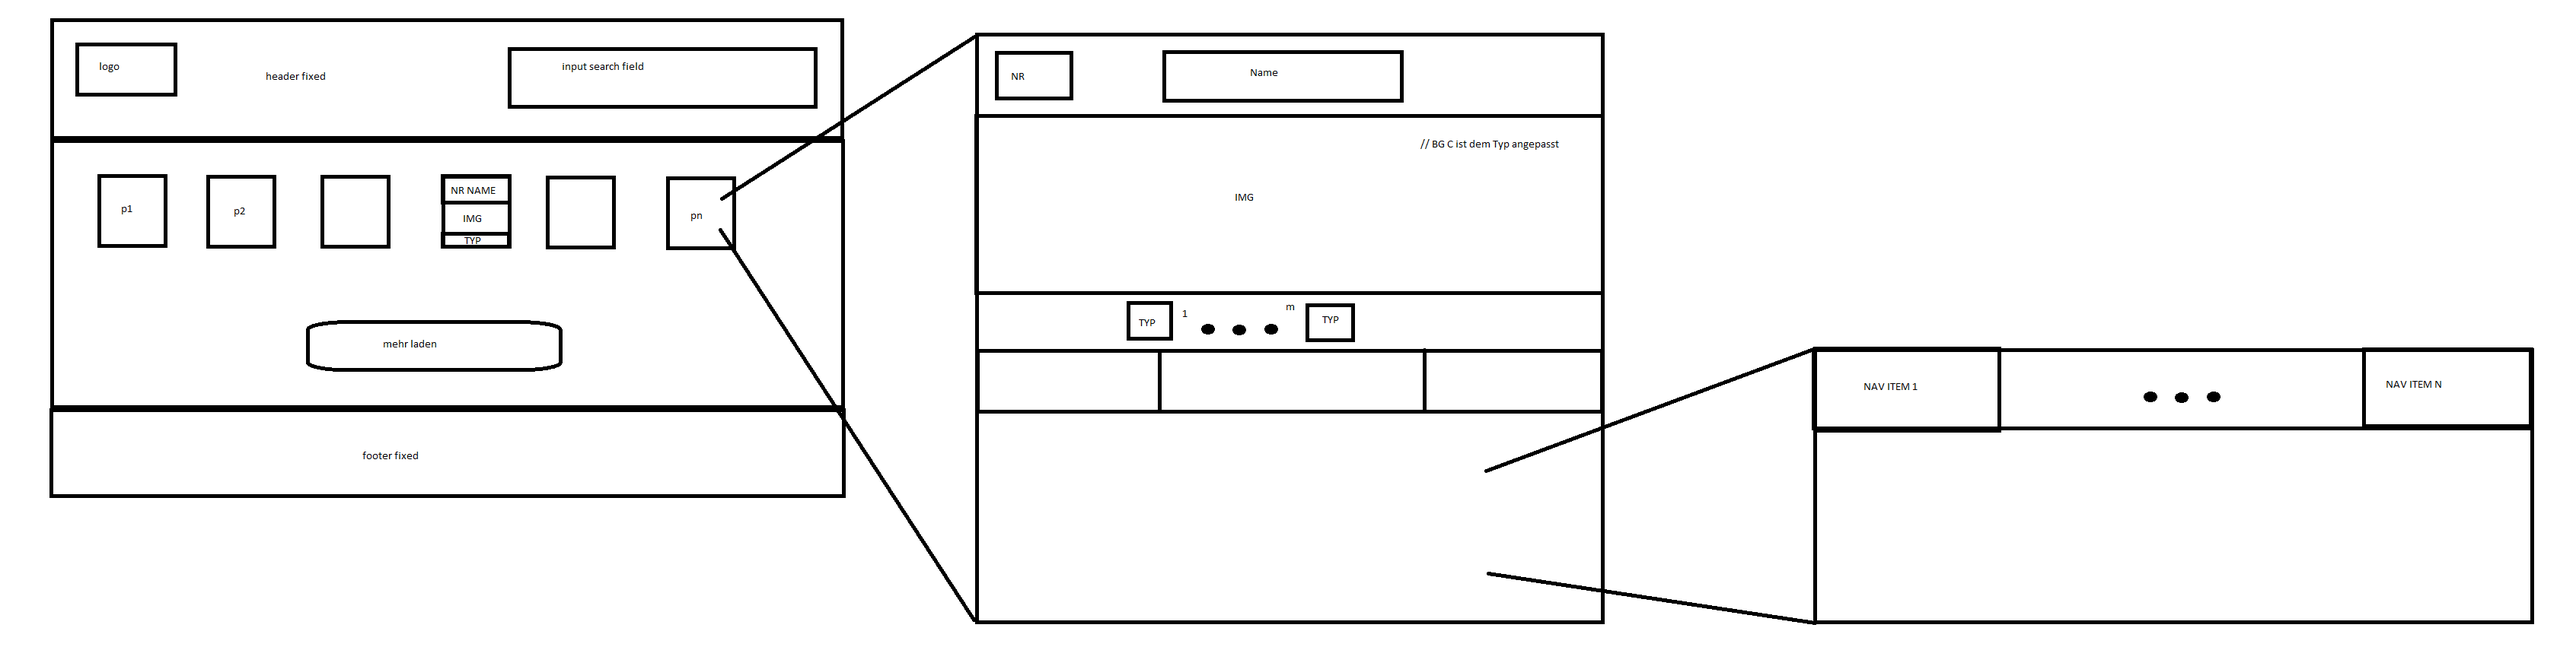
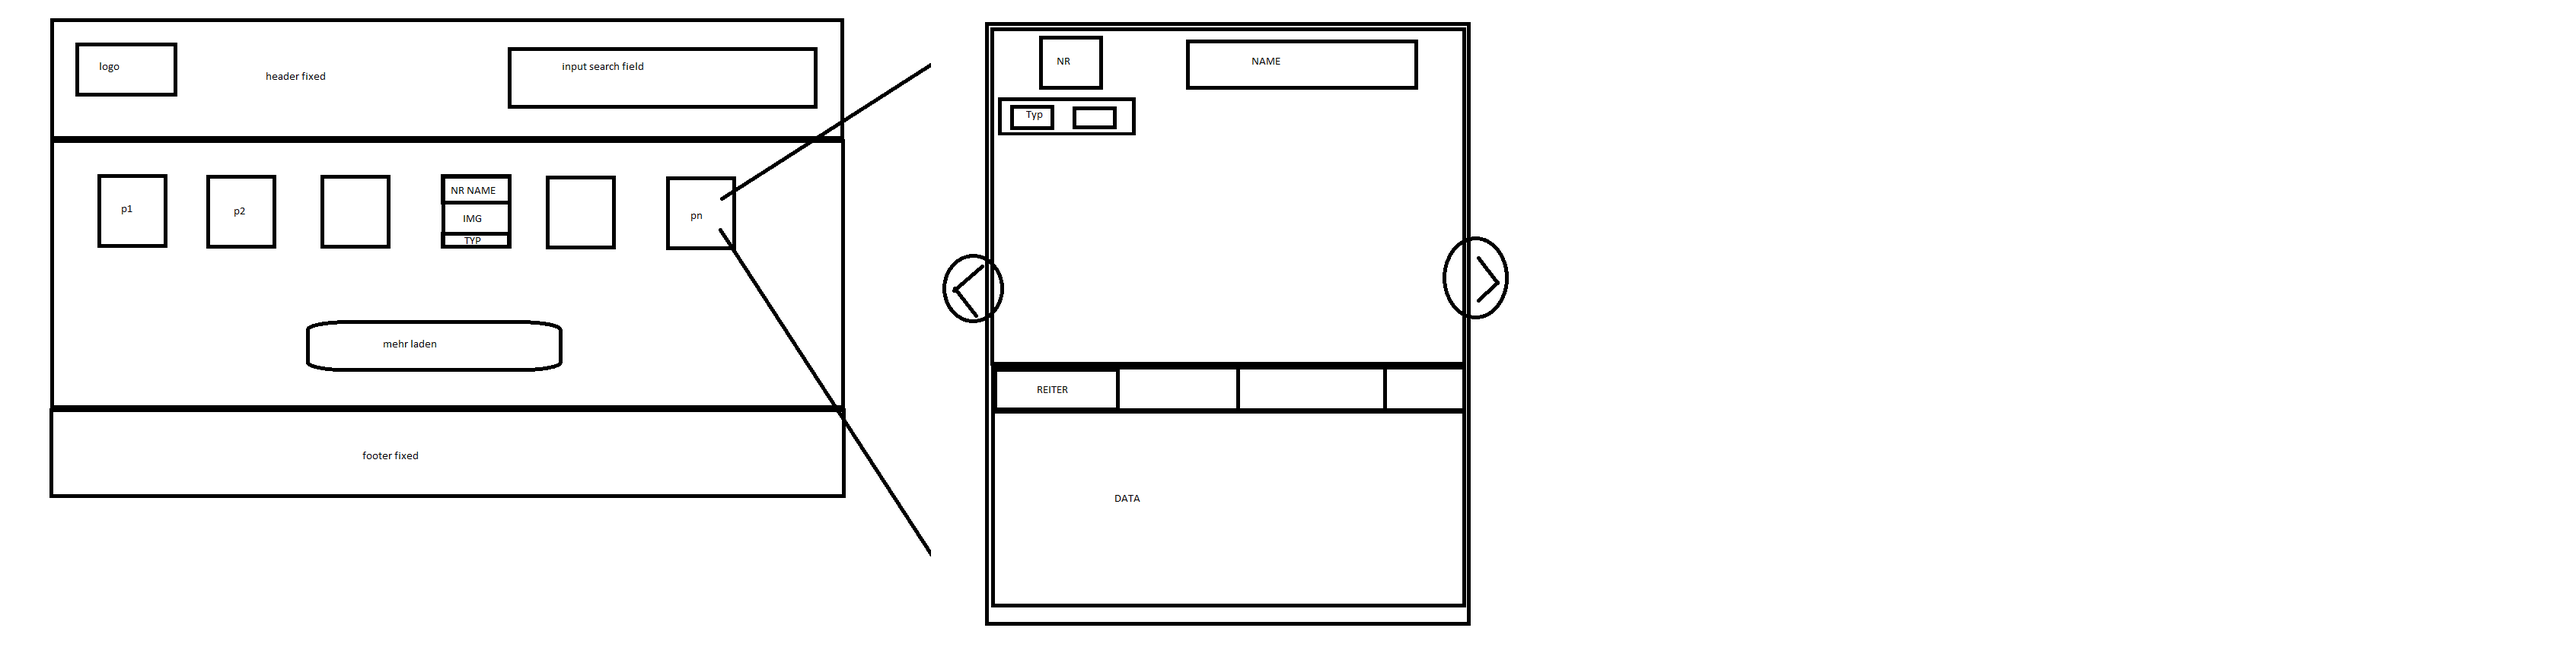
added: info navbar, other layout for info card

diff --git a/css/overlay.css b/css/overlay.css
@@ -19,3 +19,168 @@
 .overflowHidden {
     overflow: hidden;
 }
+
+
+/* --------------- Card Overlay -----------------------*/
+.card-info-container {
+    width: 310px;
+    display: flex;
+    flex-direction: column;
+    justify-content: center;
+    align-items: center;
+
+    background-color: var(--basic_white);
+    border-radius: 5%;
+    box-sizing: border-box;
+
+    border: 2px solid black;
+
+    position: relative;
+}
+
+.card-info-container .card-info-header span,
+.card-info-container .card-info-types span {
+    display: flex;
+    flex-direction: column;
+    justify-content: center;
+    align-items: center;
+    font-weight: bold;
+}
+
+.card-info-header {
+    background: none;
+    width: 100%;
+
+    display: flex;
+    flex-direction: row;
+    justify-content: space-around;
+
+    padding: 0 8px;
+    box-sizing: border-box;
+    color: var(--basic_black);
+    filter: drop-shadow(0px 0px 2px var(--basic_white));
+    box-sizing: border-box;
+
+    position: absolute;
+    top: 0;
+    left: 0;
+}
+
+/*-----------------------------------------------*/
+.card-info-types img {
+    width: 30px;
+    background: none;
+    padding: 8px;
+    border-radius: 50%;
+    object-fit: contain;
+}
+
+
+.card-info-types {
+    width: 100%;
+    background: none;
+    padding: 8px;
+    border-radius: 50%;
+    object-fit: cover;
+    filter: drop-shadow(0px 0px 2px var(--basic_white));
+
+    display: flex;
+    flex-direction: column;
+    justify-content: flex-start;
+    align-items: flex-start;
+
+    position: absolute;
+    top: 10%;
+    left: 0;
+}
+
+/*-----------------------------------------------*/
+.card-info-img-type-color {
+    width: 100%;
+    border-radius: 5% 5% 0 0;
+
+    display: flex;
+    flex-direction: row;
+    justify-content: flex-end;
+    align-items: flex-end;
+}
+
+.card-info-img-type-color>img {
+    width: 80%;
+    margin-top: 100px;
+}
+
+/*-----------------------------------------------*/
+
+.card-info-nav {
+    width: 100%;
+    background: var(--basic_white);
+    border-radius: 32px 32px 20px 20px;
+    padding-top: 32px;
+    box-sizing: border-box;
+
+    border: 1px solid red;
+}
+
+.card-info-nav ul {
+    display: flex;
+    flex-direction: row;
+    justify-content: space-between;
+    list-style: none;
+    margin: 0;
+    padding: 8px;
+}
+
+.card-info-nav ul {
+    display: flex;
+    flex-direction: row;
+    justify-content: space-around;
+    list-style: none;
+    cursor: pointer;
+}
+
+.card-info-nav li {
+    padding: 8px 8px;
+    background: var(--basic_white);
+    color: var(--grey);
+    border: none;
+    cursor: pointer;
+    border-radius: 10%;
+    border: 1px solid var(--grey);
+}
+
+.card-info-nav li:hover {    
+    background: var(--grey);
+    color: var(--basic_white);
+}
+
+.card-info-nav .selected-nav {    
+    background: blue;
+    color: var(--basic_white);
+}
+
+#card-info-content {
+    width: 100%;
+    height: 30vh;
+    margin: 0;
+    box-sizing: border-box;
+
+    display: flex;
+    flex-direction: column;
+    justify-content: center;
+    align-items: center;
+}
+
+#card-info-content table {
+    width: 100%;
+    margin-left: 16px;
+}
+
+#card-info-content td:first-child {
+    width: 65px;
+}
+
+#card-info-content td {
+
+    padding-bottom: 16px;
+}

diff --git a/js/template.js b/js/template.js
@@ -20,30 +20,75 @@ const renderCard = (data) => `
 `;
 
 const renderTypSection = (type) => `
-<img src="./asset/img/icon/typeIcon_${type.type.name}.png" alt="#">
+<img src="./asset/img/icon/typeIcon_${type.type.name}.png" alt="${type.type.name}">
+`;
+
+const renderTypInfoSection = (type) => `
+<span><img src="./asset/img/icon/typeIcon_${type.type.name}.png" alt="${
+  type.type.name
+}"> ${type.type.name.charAt(0).toUpperCase() + type.type.name.slice(1)}</span>
 `;
 
 const renderOverlay = (index) => `
 <div id="overlay" onclick="closeOverlay('overlay')">
-  <section onclick="eventStop(event)" class="card-container">
-    <div class="card-header">
+  <section onclick="eventStop(event)" class="card-info-container">
+    <div class="card-info-header">
       <span>#${dataPokemon[index].id}</span>
       <h3>${
         dataPokemon[index].name.charAt(0).toUpperCase() +
         dataPokemon[index].name.slice(1)
       }</h3>        
     </div>
-    <div class="img-type-color" >
+    <div class="card-info-types">
+      ${createTypInfoSection(dataPokemon[index].types)}          
+    </div>
+    <div class="card-info-img-type-color" style="background: ${getBGType(
+      dataPokemon[index].types
+    )};">          
       <img src="${
         dataPokemon[index].sprites.other["official-artwork"].front_default
       }" alt="#">
     </div>
-    <div class="card-types">
-      ${createTypSection(dataPokemon[index].types)}
-    </div>
+    <section class="card-info-nav" >          
+      <nav>
+        <ul onload="createMeasures(${index})">
+          <li class="selected-nav" onclick="createMeasures(${index}), changeListItems('measuresPoke')" id="measuresPoke">Measures</li>
+          <li onclick="createMeasures(${index}), changeListItems('test1')" id="test1">TESTNAV</li>
+          <li onclick="" id="test2">TESTNAV</li>
+        </ul>
+      </nav>
+      <div id="card-info-content"> 
+      INHALT
+      </div>
+    </section>        
   </section>
 </div>
 `;
 
 const renderLinearGradient = (color1, color2) =>
   `linear-gradient(120deg, ${color1}, ${color2})`;
+
+const renderMeasures = (index) => `
+<table>
+  <tr>
+    <td>Abilities</td>
+    <td>:</td>
+    <td>${createAbilities(index)}</td>
+  </tr>
+  <tr>
+    <td>Species</td>
+    <td>:</td>
+    <td>${dataPokemon[index].species.name}</td>
+  </tr>
+  <tr>
+    <td>Height</td>
+    <td>:</td>
+    <td>${dataPokemon[index].height * 10} cm</td>
+  </tr>
+  <tr>
+    <td>Weight</td>
+    <td>:</td>
+    <td>${(dataPokemon[index].weight / 10).toFixed(2).replace(".", ",") } kg</td>
+  </tr>
+</table>
+`;

diff --git a/js/script.js b/js/script.js
@@ -2,7 +2,14 @@
 
 /** Allgemeine Info
  *
+ * 4 Spinner Loading
+ * 3 Filter function
+ * 1 Navbar
+ * 5 Responsiv
+ * 2 Overlay Bilder links rechts
+ *
  */
+
 // ----------------------------------------- Anfang ------------------------------------------------------
 /** DE
  * Initialisiert verschiedene Funktionen: ...
@@ -19,13 +26,21 @@ const init = async () => {
 //   console.log(dataPokemon[0])
 // };
 
-const loadingPokeData = async () => {
-  const promises = [];
-  for (let i = start; i < end; i++) {
-    promises.push(await fetchDataPokeJson(i + 1));
-  }
-  await Promise.all(promises);
+// const loadingPokeData = async () => {
+//   const promises = [];
+//   for (let i = start; i < end; i++) {
+//     promises.push(await fetchDataPokeJson(i + 1));
+//   }
+//   await Promise.all(promises);
 
+//   createCards();
+//   setCheckStartEnd();
+// };
+
+const loadingPokeData = async () => {
+  for (let i = start; i < end; i++) {
+    await fetchDataPokeJson(i + 1);
+  }
   createCards();
   setCheckStartEnd();
 };
@@ -55,6 +70,9 @@ const buttonDisabled = () => {
 
 const createTypSection = (types) =>
   types.map((e) => renderTypSection(e)).join(" ");
+
+const createTypInfoSection = (types) =>
+  types.map((e) => renderTypInfoSection(e)).join(" ");
 
 const getBGType = (types) => {
   let color1 = typeColors[types[0].type.name]
@@ -100,3 +118,27 @@ const closeOverlay = (id) => {
 const eventStop = (event) => {
   event.stopPropagation();
 };
+
+// ----------------------------------------- navbar ------------------------------------------------------
+
+
+const createMeasures = (index) => {
+  let contRef = document.getElementById("card-info-content");
+  contRef.innerHTML = renderMeasures(index);
+};
+
+
+const createAbilities = (index) => {
+  let abiNames = [];
+  for (let i = 0; i < dataPokemon[index].abilities.length; i++) {
+    abiNames.push(dataPokemon[index].abilities[i].ability.name)    
+  }
+  
+  return abiNames.join(', ')
+}
+
+const changeListItems = (id) => {
+  toggleClass(id, 'selected-nav');
+
+  // hier muss noch die anderen Button/li geprüft bzw. werden.
+}

diff --git a/index.html b/index.html
@@ -26,8 +26,8 @@
       type="image/x-icon"
     />
   </head>
-
-  <body id="body-container" onload="init()">
+  <!-- onload="init()" -->
+  <body id="body-container" onload="init()" >
     <!-- header -->
     <header>
       <div class="header-left">
@@ -42,7 +42,7 @@
       <h1>Komm und schnapp sie dir!</h1>
       <div id="content-profiles"></div>
       <button id="more-profiles" onclick="init()">Mehr laden</button>
-    </main>
+    </main>   
 
     <!-- footbar -->
     <footer>

diff --git a/css/general.css b/css/general.css
@@ -11,9 +11,9 @@
     --basic_white: whitesmoke;
     --header_color: linear-gradient(145deg, #d32f2f, #b71c1c);
     --gold: rgb(201, 174, 83);
-    --grey: rgb(61, 61, 61);
+    --grey: #181818;
     --blue: #0044cc;
-    --lightgrey: rgb(110, 110, 110);
+    --lightgrey: #282727;
 
     /* value */
     --b_rad: 16px;
@@ -56,4 +56,5 @@ h1 {
 
     font-family: 'Pokemon Solid', sans-serif;
 }
+
 

diff --git a/css/cards.css b/css/cards.css
@@ -45,10 +45,8 @@
     box-shadow: 0px -5px 10px 1px rgba(0, 0, 0, 0.6) inset, 0px 10px 5px 1px rgba(255, 255, 255, 0.4) inset;
 }
 
-.img-type-color {
-    background-color: green;
+.img-type-color {    
     width: 100%;
-
 }
 
 .card-types {

diff --git a/css/main.css b/css/main.css
@@ -22,7 +22,6 @@ button {
     width: fit-content;
     font-weight: bold;
     border-radius: 10%;
-    box-shadow: 0px -5px 10px 1px rgba(0, 0, 0, 0.6) inset;
 }
 
 button:hover {
